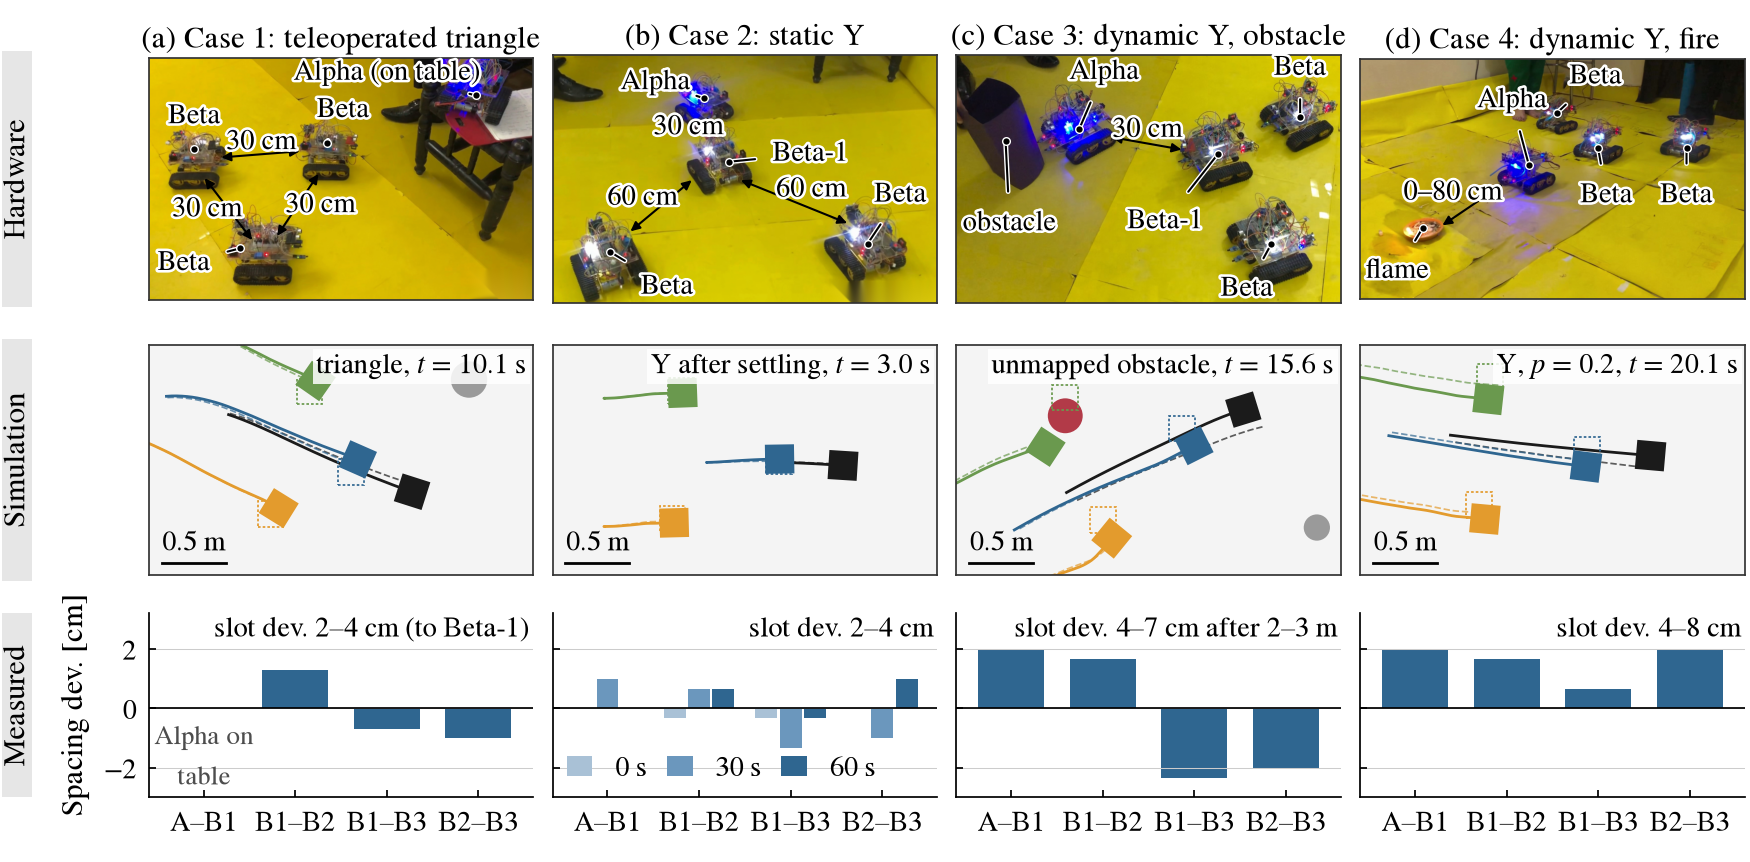
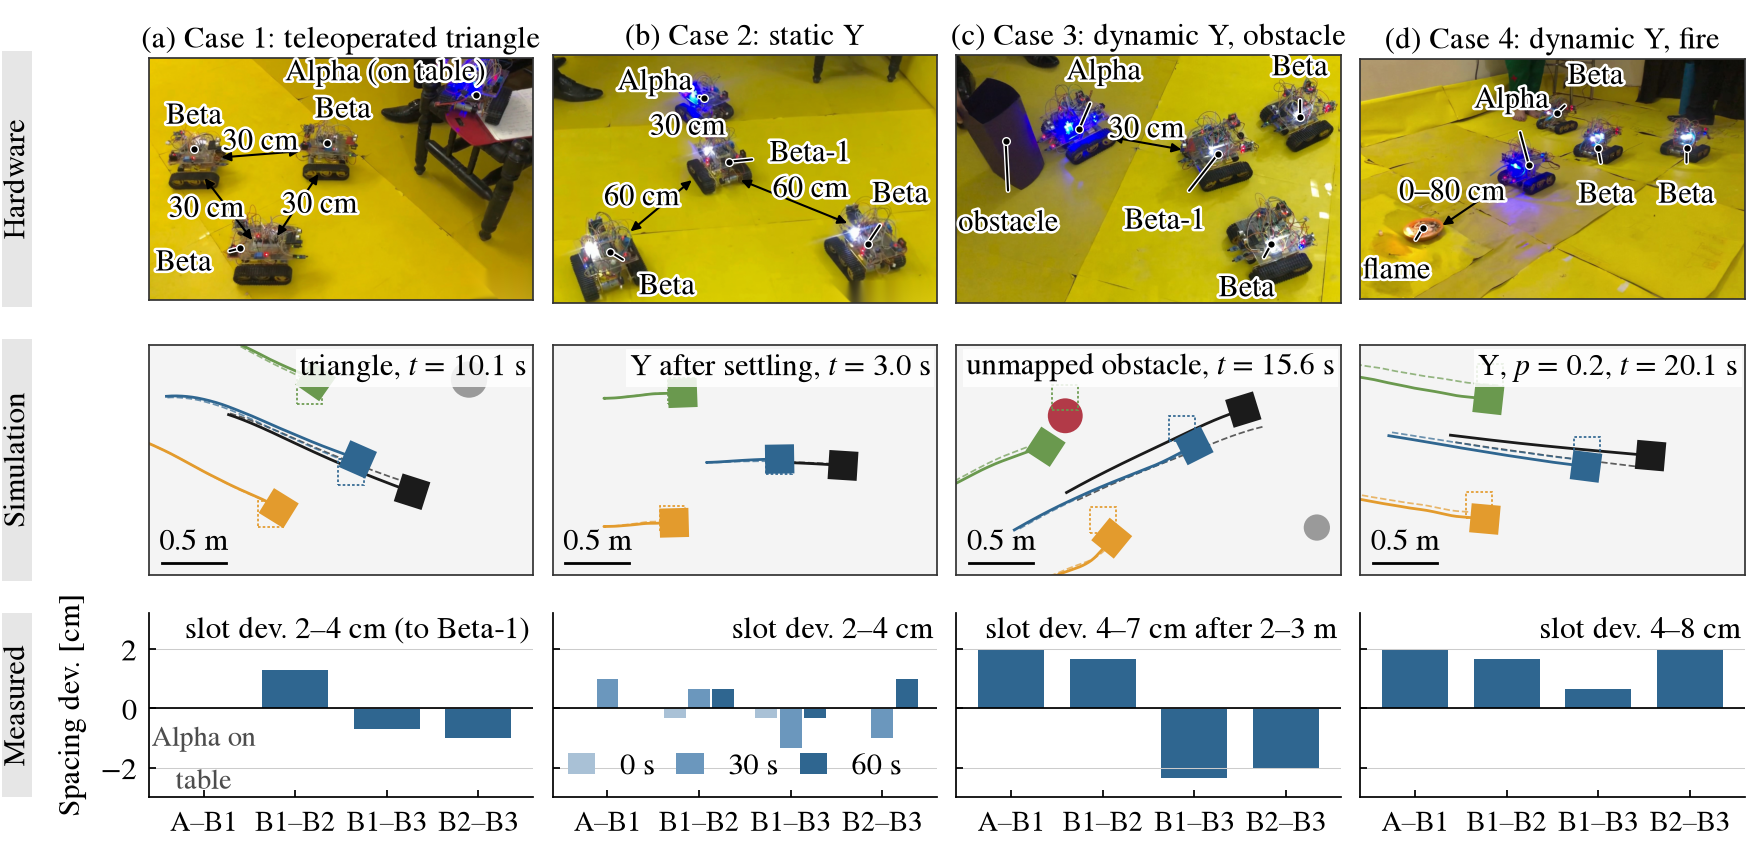
Larger annotation and legend text in the four-case and packet-loss figures

diff --git a/sim/make_cases_fig.py b/sim/make_cases_fig.py
@@ -14,8 +14,8 @@ from core import formation
 
 plt.rcParams.update({
     "font.family": "serif", "font.serif": ["STIXGeneral", "DejaVu Serif"], "mathtext.fontset": "stix",
-    "font.size": 8.8, "axes.titlesize": 8.8, "axes.labelsize": 8.8, "xtick.labelsize": 8.2, "ytick.labelsize": 8.2,
-    "legend.fontsize": 8.2, "axes.linewidth": 0.5, "xtick.major.width": 0.5, "ytick.major.width": 0.5,
+    "font.size": 8.8, "axes.titlesize": 8.8, "axes.labelsize": 8.8, "xtick.labelsize": 8.2, "ytick.labelsize": 8.8,
+    "legend.fontsize": 8.8, "axes.linewidth": 0.5, "xtick.major.width": 0.5, "ytick.major.width": 0.5,
     "xtick.major.size": 2, "ytick.major.size": 2, "xtick.direction": "in", "ytick.direction": "in",
     "axes.titlepad": 3, "pdf.fonttype": 42,
 })
@@ -35,7 +35,7 @@ def load(f, crop):
 
 def label(ax, P, x, y, txt, dx, dy, col="black"):
     px, py = P(x, y); tx, ty = P(x + dx, y + dy)
-    ax.annotate(txt, (px, py), (tx, ty), ha="center", va="center", fontsize=8.2, color="black",
+    ax.annotate(txt, (px, py), (tx, ty), ha="center", va="center", fontsize=8.8, color="black",
                 path_effects=HALO, arrowprops=dict(arrowstyle="-", lw=0.6, color="black", shrinkA=3, shrinkB=0,
                                                     path_effects=[pe.withStroke(linewidth=1.4, foreground="white")]), zorder=5)
     ax.plot(px, py, "o", ms=2.2, mfc="black", mec="white", mew=0.4, zorder=6)
@@ -46,7 +46,7 @@ def dim(ax, P, a, b, txt, o=(0, 0)):
     ax.annotate("", pa, pb, arrowprops=dict(arrowstyle="<|-|>,head_length=0.25,head_width=0.12", lw=0.6,
                                             color="black", shrinkA=0, shrinkB=0), zorder=4)
     m = ((pa[0] + pb[0]) / 2 + o[0], (pa[1] + pb[1]) / 2 + o[1])
-    ax.text(*m, txt, fontsize=8.2, color="black", ha="center", va="center", path_effects=HALO, zorder=6)
+    ax.text(*m, txt, fontsize=8.8, color="black", ha="center", va="center", path_effects=HALO, zorder=6)
 
 
 def frame(ax):
@@ -125,8 +125,8 @@ def snapshot(ax, form, seed, n_unknown, when, label_txt):
             sl = pos[k, 0] + np.array([c * off[i, 0] - s * off[i, 1], s * off[i, 0] + c * off[i, 1]])
             ax.add_patch(Rectangle(sl - 0.1, 0.2, 0.2, fill=False, ec=ROB[i], lw=0.5, ls=(0, (1.5, 1.2)), zorder=3))
     ax.plot([cen[0] - 1.4, cen[0] - 0.9], [cen[1] - 0.8] * 2, "k-", lw=0.8)
-    ax.text(cen[0] - 1.15, cen[1] - 0.76, "0.5 m", ha="center", va="bottom", fontsize=8.2)
-    ax.text(cen[0] + 1.45, cen[1] + 0.84, f"{label_txt}, $t$ = {t[k]:.1f} s", ha="right", va="top", fontsize=8.2, zorder=7,
+    ax.text(cen[0] - 1.15, cen[1] - 0.76, "0.5 m", ha="center", va="bottom", fontsize=8.8)
+    ax.text(cen[0] + 1.45, cen[1] + 0.84, f"{label_txt}, $t$ = {t[k]:.1f} s", ha="right", va="top", fontsize=8.8, zorder=7,
             bbox=dict(boxstyle="square,pad=0.12", fc="white", ec="none", alpha=0.85))
     frame(ax)
 
@@ -159,12 +159,12 @@ for j, (f, groups, note) in enumerate(meas):
     ax.spines["top"].set_visible(False); ax.spines["right"].set_visible(False)
     if j == 0:
         ax.set_ylabel("Spacing dev. [cm]")
-        ax.text(0, -0.3, "Alpha on\ntable", ha="center", va="top", fontsize=7.7, color=GREY)
+        ax.text(0, -0.3, "Alpha on\ntable", ha="center", va="top", fontsize=8.2, color=GREY)
     else:
         ax.set_yticklabels([])
     if n > 1:
         ax.legend(ncol=3, loc="lower left", frameon=False, handlelength=0.9, columnspacing=0.7, borderaxespad=0.1)
-    ax.text(0.99, 0.99, note, transform=ax.transAxes, ha="right", va="top", fontsize=8.2)
+    ax.text(0.99, 0.99, note, transform=ax.transAxes, ha="right", va="top", fontsize=8.8)
 
 # ---------------- vertical row labels
 for r, lab in enumerate(["Hardware", "Simulation", "Measured"]):

diff --git a/sim/make_figs.py b/sim/make_figs.py
@@ -172,8 +172,8 @@ E4D = d
 # ------------------------------------------------------------------ Fig: packet loss + scalability (one row)
 from matplotlib.lines import Line2D
 _rc = plt.rcParams.copy()   # larger text for this figure* (read at full page width)
-plt.rcParams.update({"font.size": 8.8, "axes.labelsize": 8.8, "axes.titlesize": 8.8, "legend.fontsize": 8.8,
-                     "xtick.labelsize": 8.2, "ytick.labelsize": 8.2})
+plt.rcParams.update({"font.size": 8.8, "axes.labelsize": 8.8, "axes.titlesize": 8.8, "legend.fontsize": 9.4,
+                     "xtick.labelsize": 8.8, "ytick.labelsize": 8.8})
 fig, axs = plt.subplots(1, 4, figsize=(TW, 1.85))
 MS = ["asa", "lpsi_zoh", "consensus", "lpsi_pred"]
 for form, ls, mk in [("triangle", "-", "o"), ("Y", "--", "s")]:
